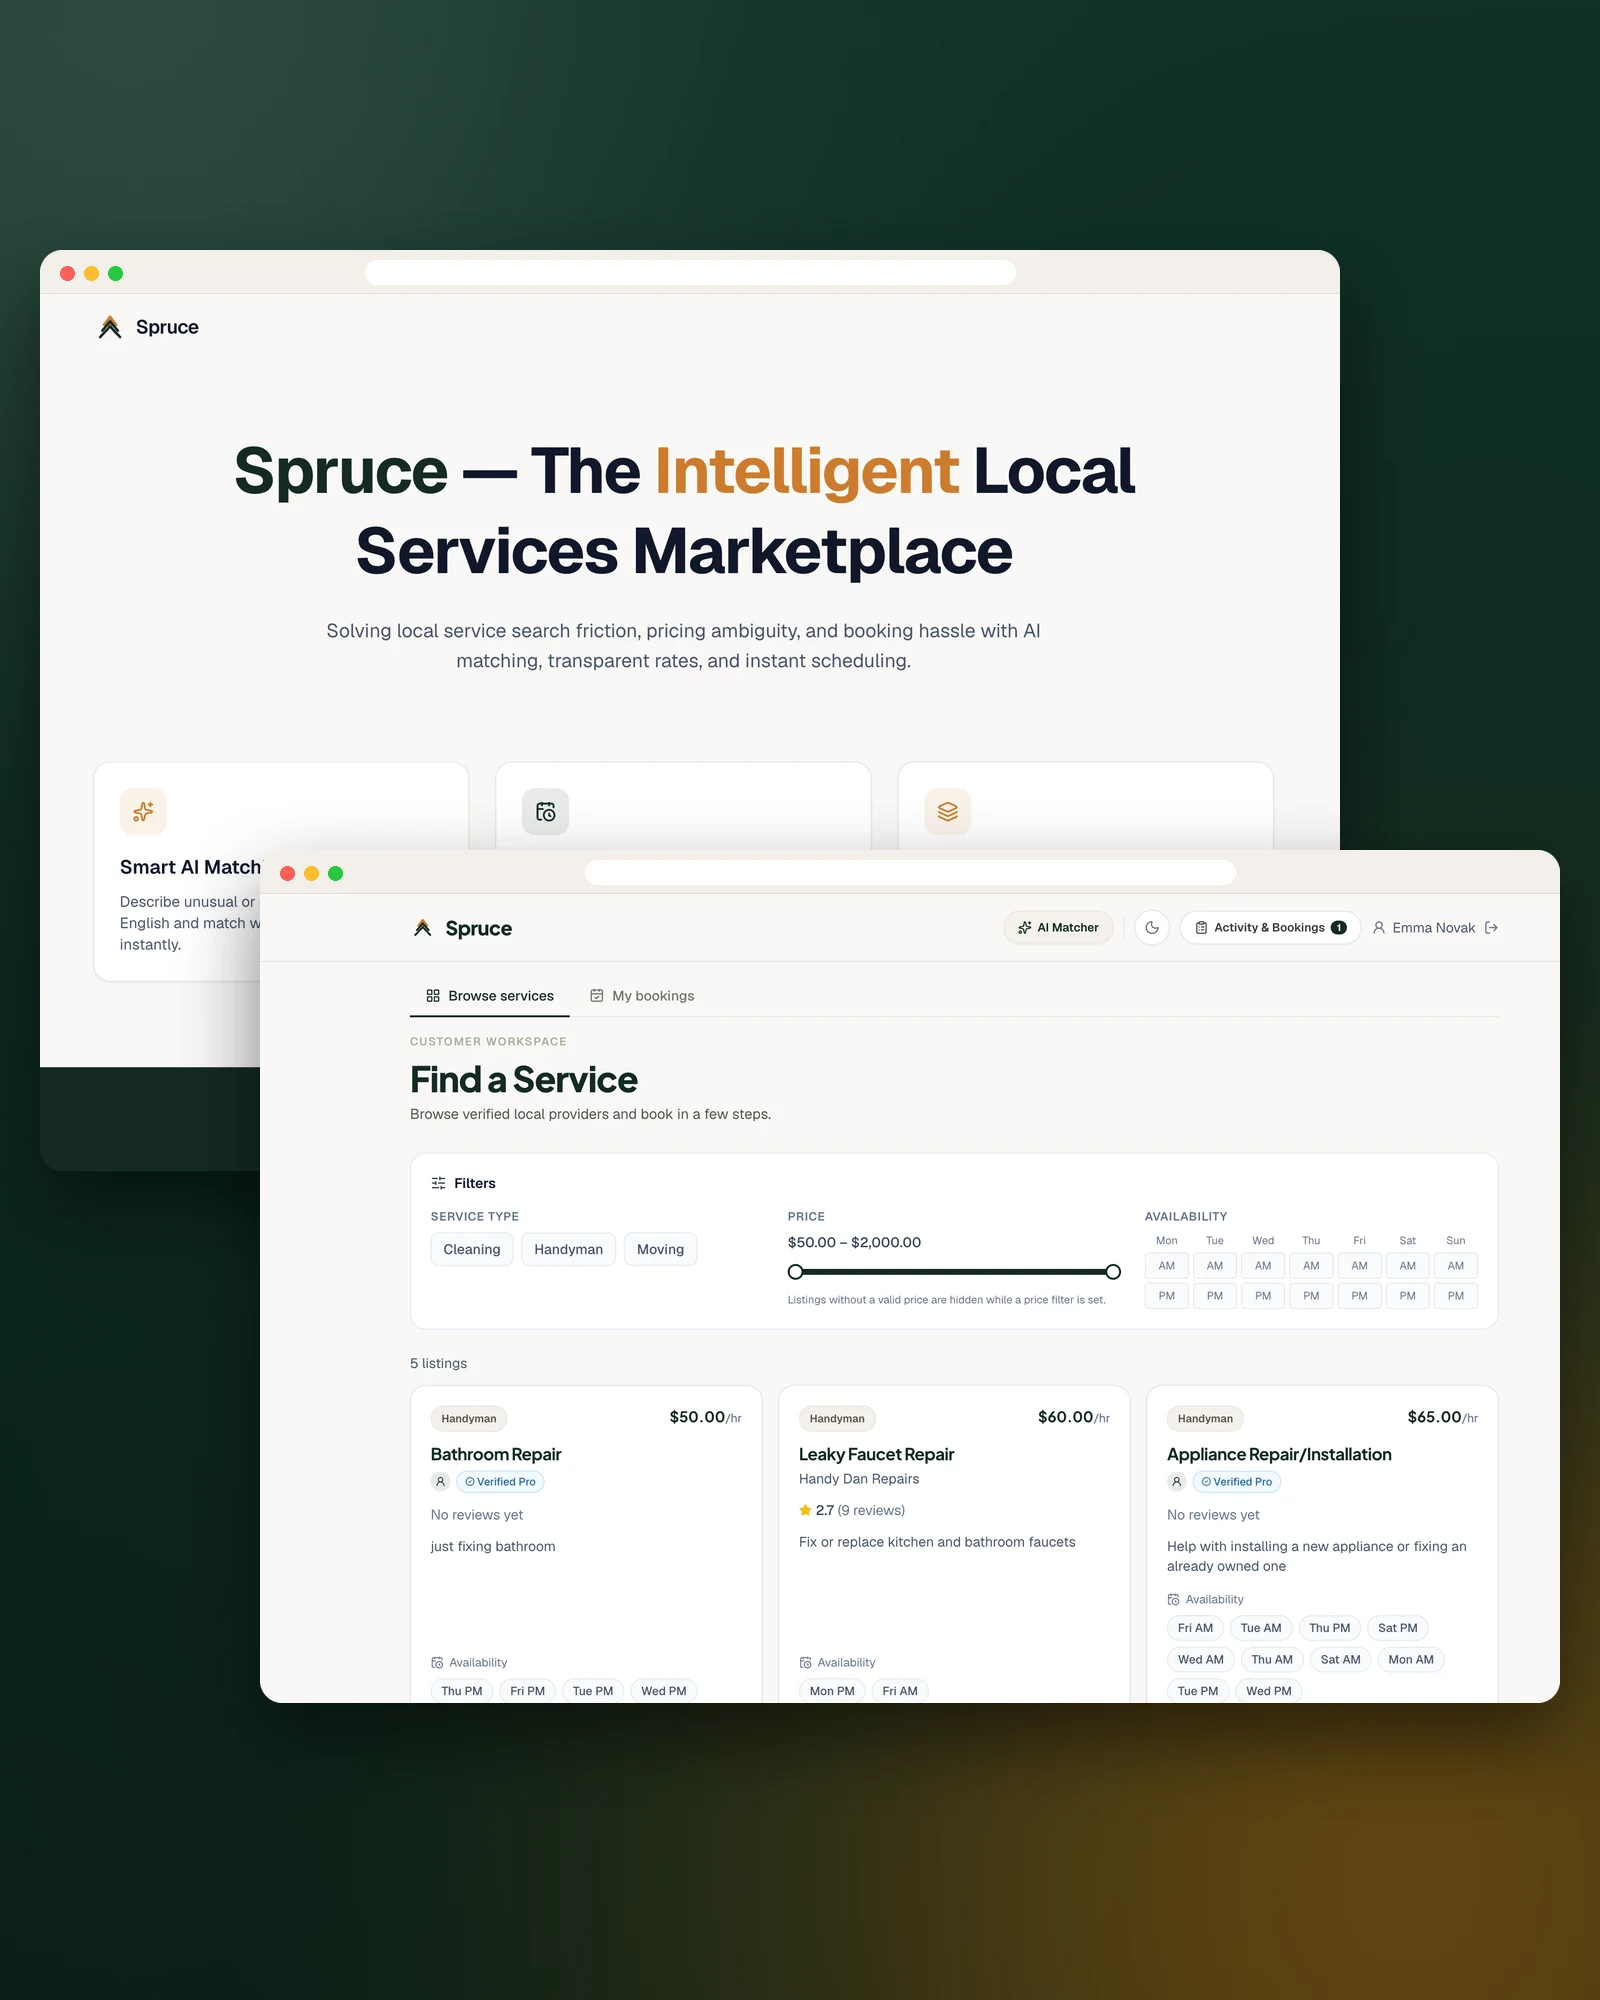
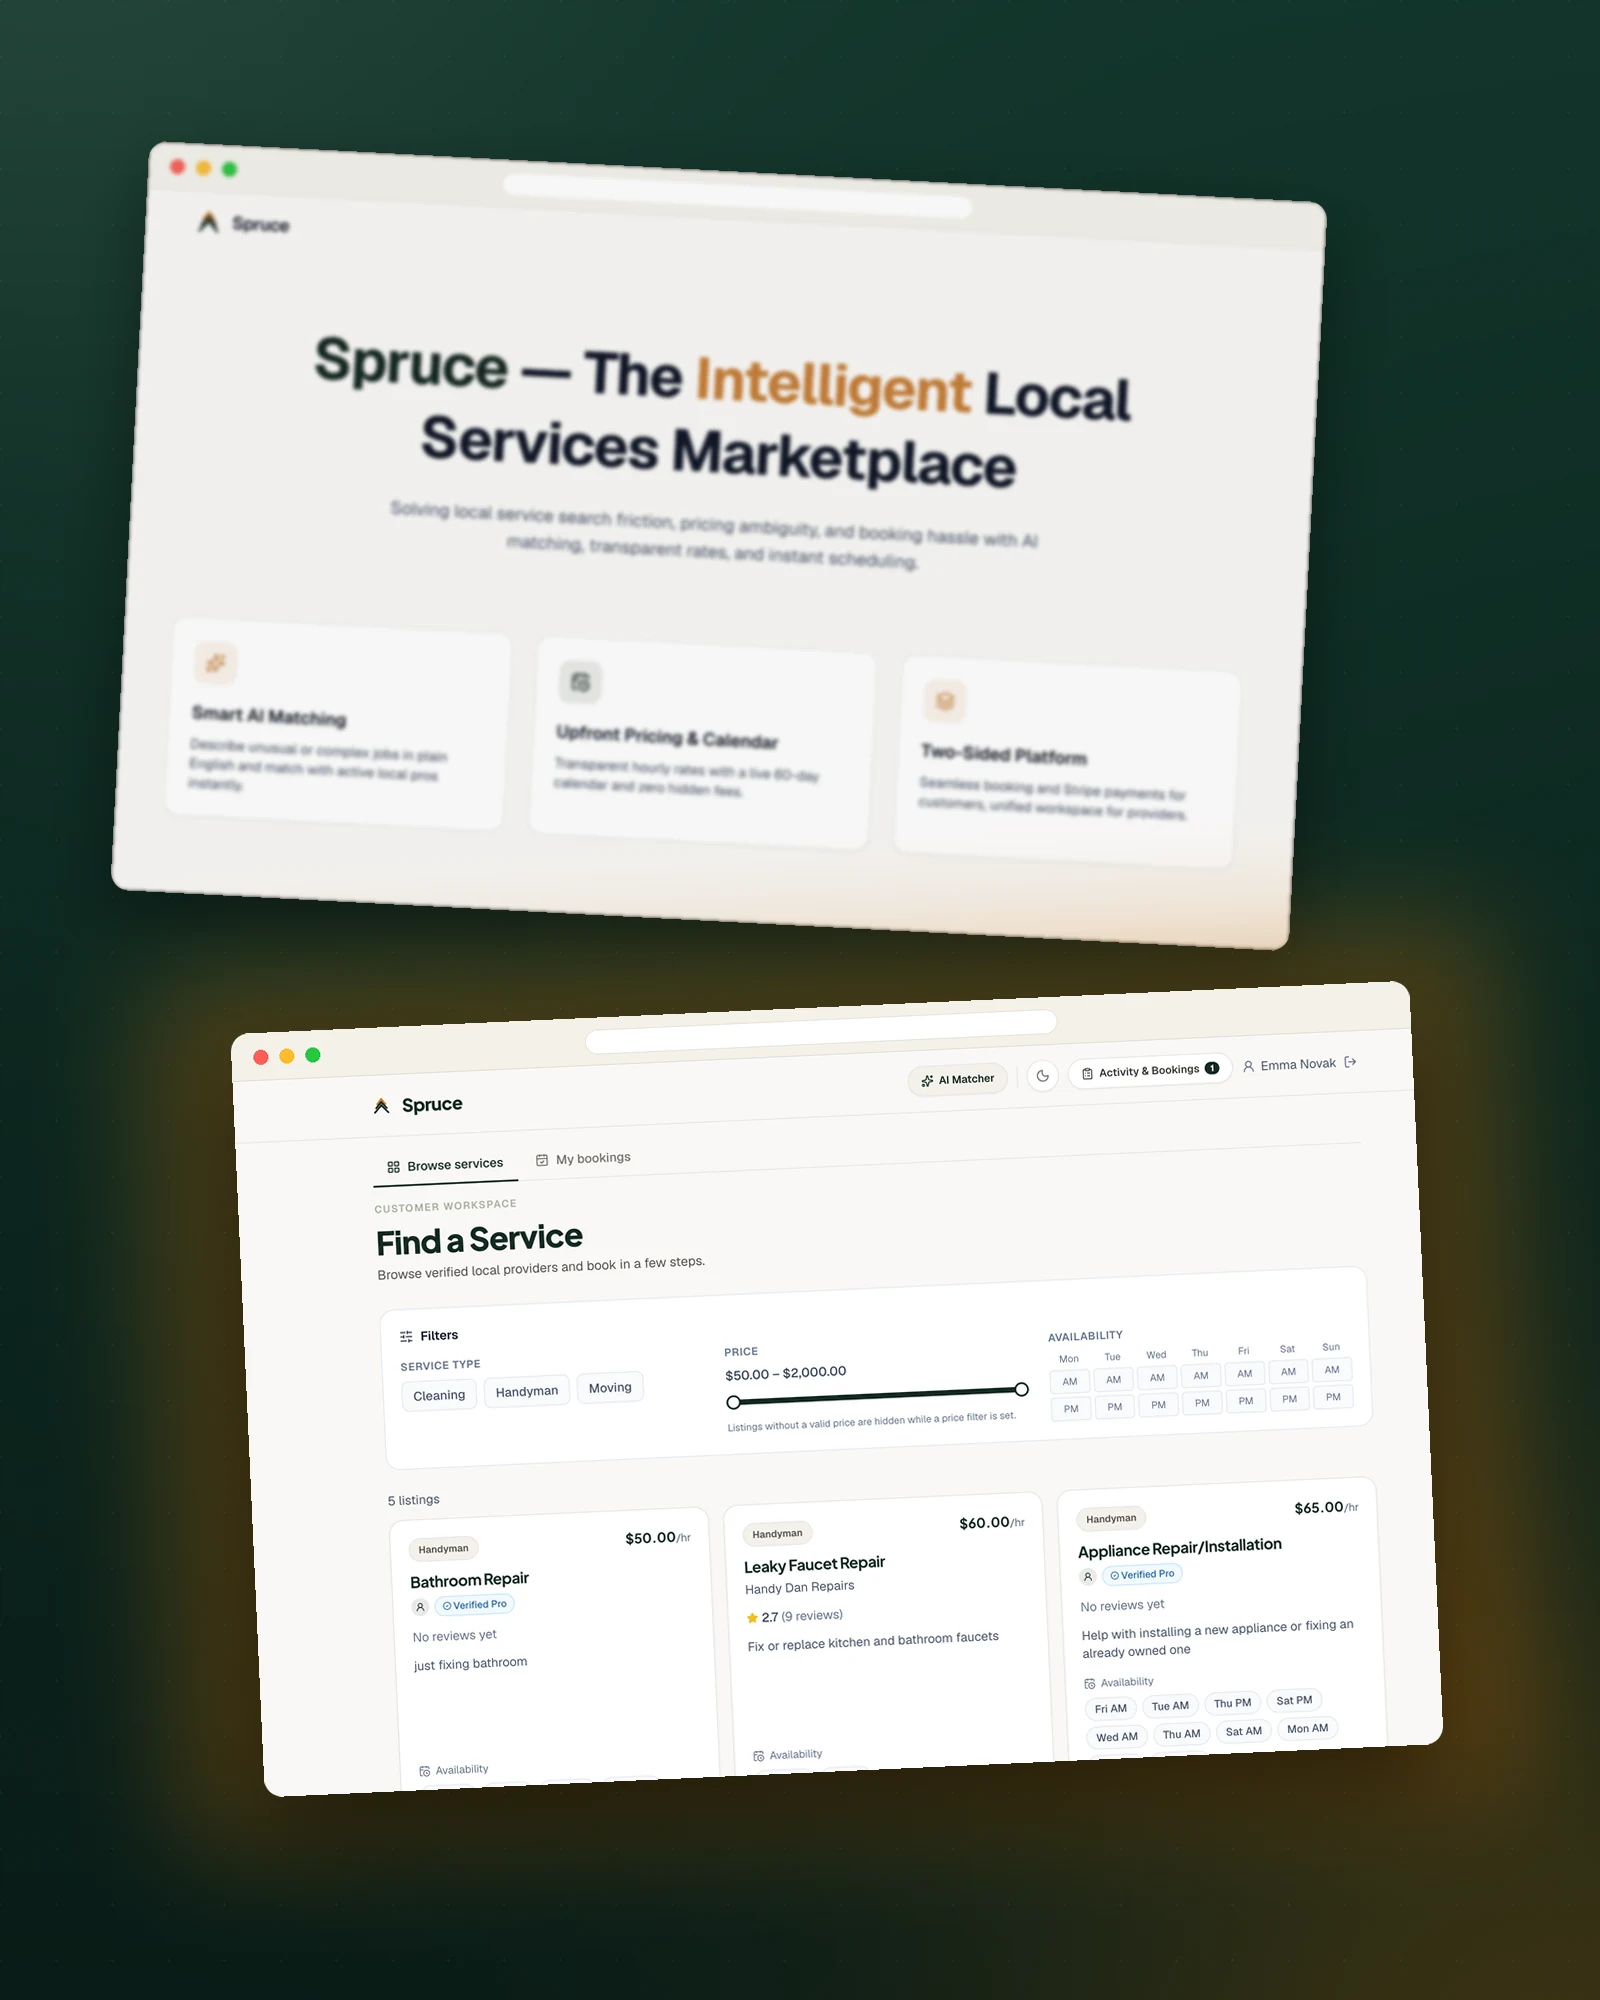
Redo the Spruce mockup with a tilted, depth-of-field cascade
Same two screenshots and brand-color background as before, but now
each browser window is gently rotated instead of sitting flat, the
front (live app) window gets a soft amber glow and close shadow, and
the back (landing page) window is blurred/desaturated to read as a
step behind it — closer in polish to the Aligned and Kippo mockups.

diff --git a/CLAUDE.md b/CLAUDE.md
@@ -379,7 +379,39 @@ Generative AI" service naming.
   description), no image box per service — matches clay.global's pattern.
   Visual/case-study proof lives in the Selected work cards, not here.
 
-## Known gaps (as of 2026-09-19, 4th pass)
+## Known gaps (as of 2026-09-19, 5th pass)
+- **Resolved (Spruce mockup, redone 2026-09-22)**: the flat two-window
+  overlap from the first pass (2026-09-19) was replaced with a more
+  polished, cascading composition — closer in craft level to Aligned's
+  and Kippo's device mockups. Same two source screenshots (no new
+  images exist in `~/Spruce/` — confirmed, only the same two 2026-09-19
+  files are there), same brand-token background, but now: each
+  browser window is gently rotated (a few degrees, opposite
+  directions) instead of sitting flat/square; the front window ("Find
+  a Service," the live product) gets a soft amber glow and a stronger,
+  closer shadow; the back window ("Landing") is slightly Gaussian-
+  blurred and desaturated to read as a shallow depth-of-field step
+  behind it — the cascading z-order itself (marketing page behind,
+  live app in front) *is* the flow, marketing site leading into
+  product. **Tried and reverted**: an explicit curved arrow connecting
+  the two windows, plus numbered "01 Landing / 02 Find a Service"
+  badges — both looked cluttered next to the tilt/glow/depth treatment
+  and risked overlapping real screenshot text, so neither shipped;
+  Aligned/Kippo's own mockups also carry no text overlays, so this
+  keeps Spruce consistent with them. Landing screenshot is now cropped
+  to end right above its dark "Ready to explore?" CTA band (the band's
+  two buttons are cut off mid-button in the raw screenshot, which
+  looked unfinished). Same file paths, same `bannerImage`/`cardImage`
+  wiring (`public/images/spruce/mockup-hero.webp` 2400×1350,
+  `mockup-card.webp` 1600×2000) — no `spruce.ts` changes needed, only
+  the two image files. Script: scratchpad-only
+  (`spruce/compose2.py`, superseding the first pass's `compose.py`) —
+  rotation is done with `Image.rotate(angle, expand=True)`, and a
+  small helper maps a point in the *pre*-rotation image to its
+  on-canvas position after rotation (needed to place the glow/shadow
+  precisely) — re-derive rather than trust fractions of the rotated
+  image's own padded width/height, which include the rotation's
+  expand-margin and don't line up with the visible card.
 - **Resolved (Spruce mockup hero, 2026-09-19)**: Spruce now has a
   framed-browser mockup as its `bannerImage`
   (`public/images/spruce/mockup-hero.webp`, 2400×1350, 16:9) — the
